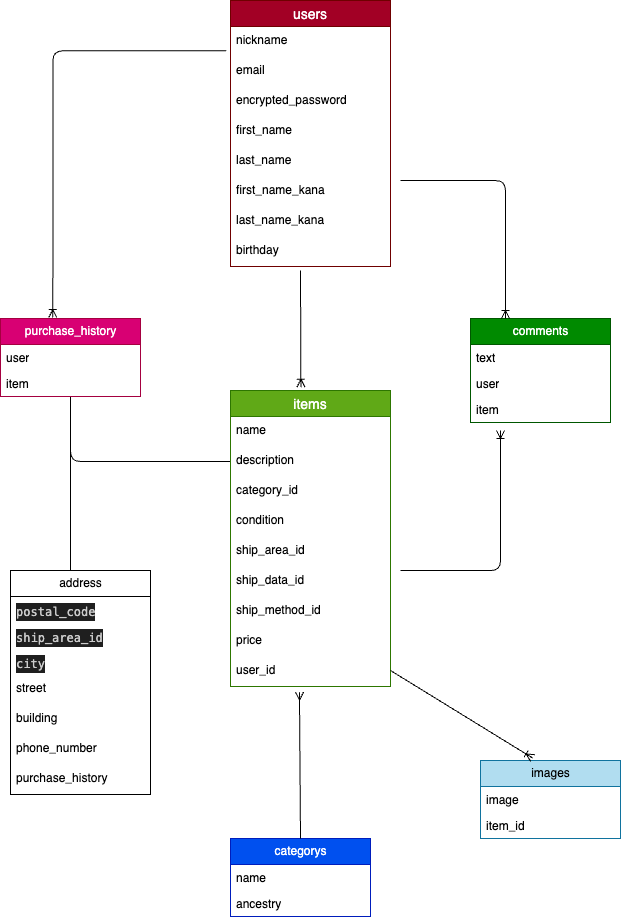
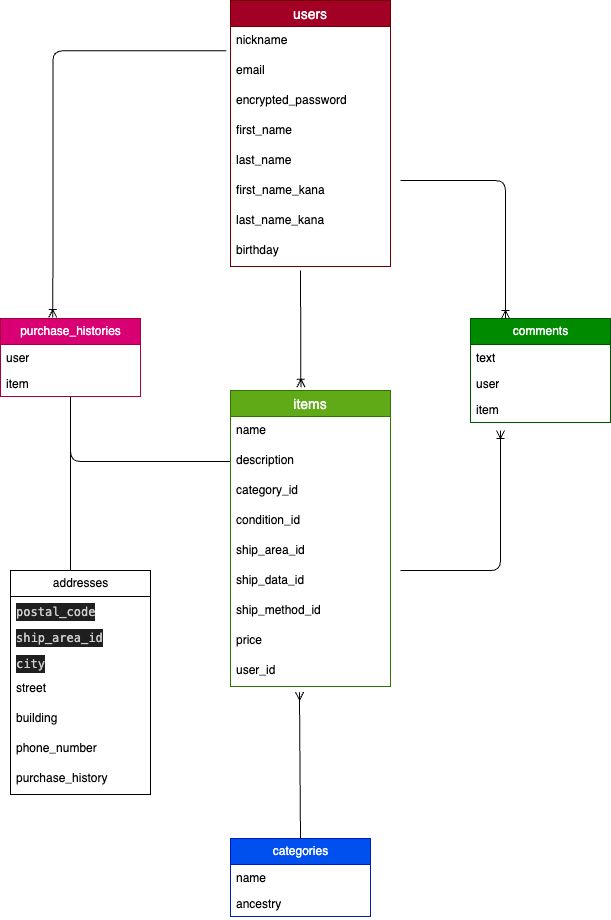
修正

diff --git a/README.md b/README.md
@@ -14,7 +14,6 @@
 |birthday    |date   |null: false|
 
 ### Assosiation
-
 - has_many :items
 - has_many :comments
 - has_many :purchase_histories
@@ -26,7 +25,7 @@
 |name          |string |null: false, limit:40|
 |description   |text   |null: false, limit:1000|
 |category_id   |integer|null: false|
-|condition     |string|
+|condition_id  |integer |null: false|
 |ship_area_id  |integer |null: false|
 |ship_date_id  |integer |null: false|
 |ship_method_id|integer |null: false|
@@ -37,18 +36,17 @@
 - belongs_to :user
 - belongs_to :category
 - has_many :comments
-- has_many :images
 - has_one :purchase_history
 
 
-## addressテーブル
+## addressesテーブル
 |Column|Type|Options|
 |------|----|-------|
 |postal_code   |string |null: false|
 |ship_area_id  |integer |null: false|
 |city  |string|null: false|
 |street    |string|null: false|
-|building   string
+|building   |string|
 |phone_number  |string|null: false|
 |purchase_history|references |null: false, foreign_key: true |
 
@@ -66,7 +64,7 @@
 - belongs_to :user
 - belongs_to :item
 
-## categoryテーブル
+## categoriesテーブル
 |Column|Type|Options|
 |------|----|-------|
 |name    |string|null: false|
@@ -75,16 +73,7 @@
 ### Assosiation
 - has_many :items
 
-## imagesテーブル
-|Column|Type|Options|
-|------|----|-------|
-|image   |text   |null: false|
-|item_id|integer|null: false, foreign_key: true|
-
-### Assosiation
-- belongs_to :item
-
-## purchase_historyテーブル
+## purchase_historiesテーブル
 |Column|Type|Options|
 |------|----|-------|
 |user   |references|null: false, foreign_key: true|
